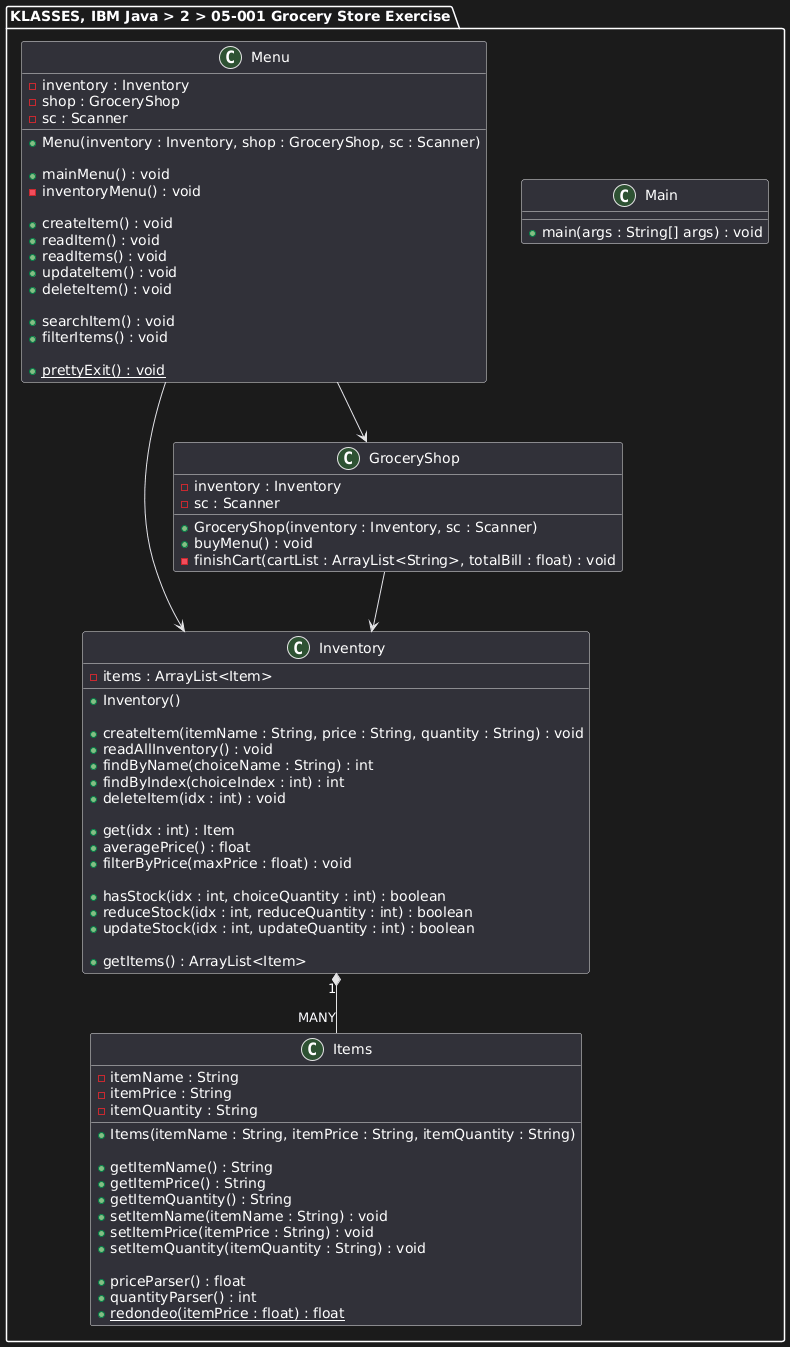
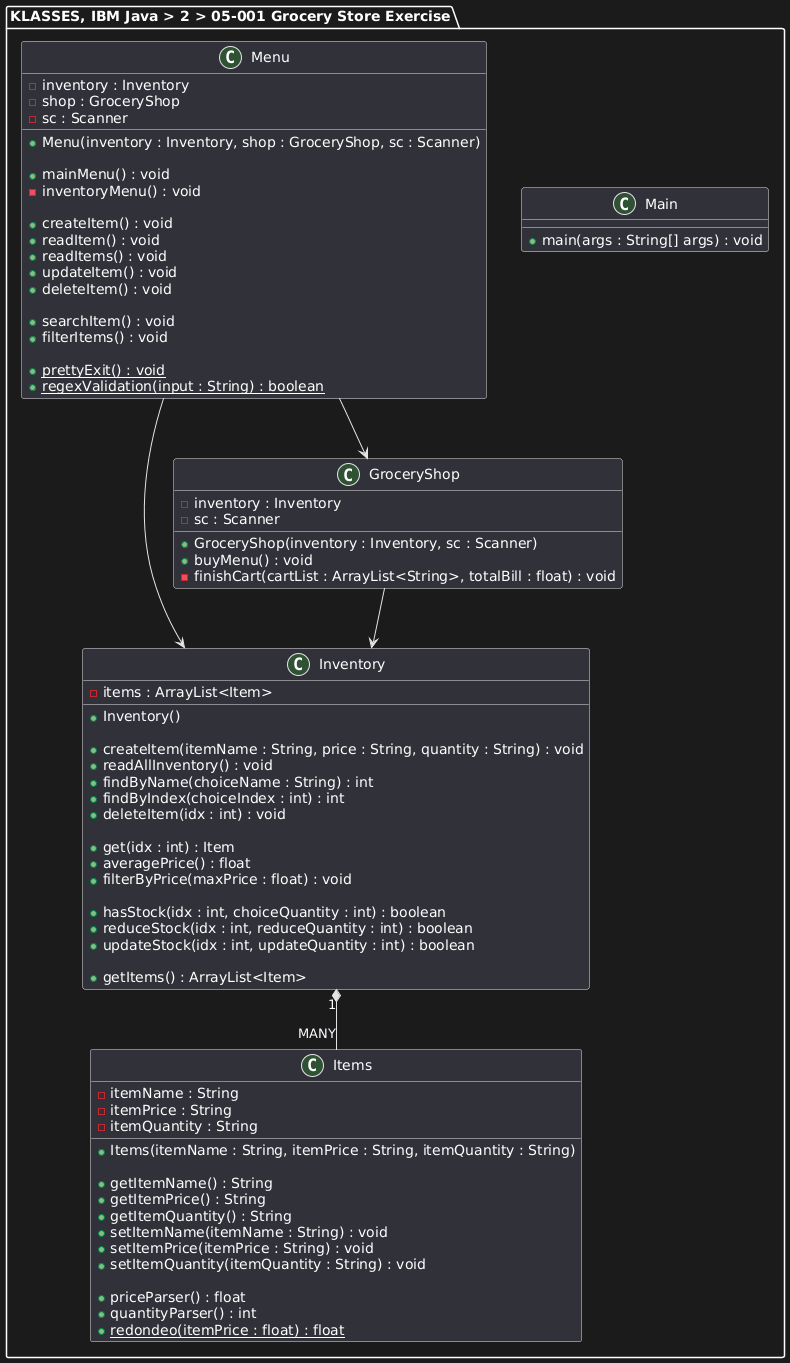
Add UserDefined Exception Handlers; add regex validation for inputs; update diagrams

Changed region(s): [[0.0304, 0.0, 0.7899, 0.9978], [0.6684, 0.1247, 0.9722, 0.1871], [0.6684, 0.8107, 0.7291, 0.8731]]

diff --git a/IBM_Java_Certification_EXERCISE_02-05-001/exercise/lab_grocery_proj/src/Menu.java b/IBM_Java_Certification_EXERCISE_02-05-001/exercise/lab_grocery_proj/src/Menu.java
@@ -6,6 +6,7 @@
  *
 */
 
+import java.rmi.UnexpectedException;
 import java.util.Scanner;
 
 public class Menu {
@@ -27,7 +28,7 @@ public class Menu {
     // methods
 
     // mainMenu() - public, accessed by Main
-    public void mainMenu() {
+    public void mainMenu() throws NotExpectedException {
 
         /*
         1. Administrar inventarios
@@ -90,8 +91,8 @@ public class Menu {
                     
                 } else {
 
-                    System.out.println("\n\n   [!]  Please, enter a valid option!");
-                    // pending a continue statement
+                    throw new UnexpectedException("\n\n   [!]  Please, enter a valid (numeric) option!");
+
                 }
 
 
@@ -108,7 +109,7 @@ public class Menu {
 
     // inventoryMenu(), private, accessed by others (Menu, Inventory) but through this Menu class (1 to many)
     // TASK 4  - while
-    private void inventoryMenu() {
+    private void inventoryMenu() throws NotExpectedException {
 
         /*
             1. Create item
@@ -170,8 +171,7 @@ public class Menu {
 
                 } else {
 
-                    System.out.println("\n\n   [!]  Please, enter a valid option!");
-                    // pending a continue statement
+                    throw new UnexpectedException("\n\n   [!]  Please, enter a valid (numeric) option!");
                 }
 
             } catch (Exception e) {
@@ -188,12 +188,16 @@ public class Menu {
     // METHODS like CRUD
     
     // createItem()
-    public void createItem(){
+    public void createItem() throws NotExpectedException, RegexValidationException{
 
         System.out.println("\n\n INVENTORY TOOLS:   Add new product");
         
         System.out.println("\n   -> Product Name? : ");
+        
         String choiceName = sc.nextLine();
+
+        regexValidation(choiceName);
+        
         if(choiceName.toUpperCase().strip().contains("EXIT")){
         
             prettyExit();
@@ -203,9 +207,11 @@ public class Menu {
 
         System.out.println("\n   -> Product Price (includes .00 decimals) ? : ");
         String choicePrice = sc.nextLine();
+        regexValidation(choicePrice);
 
         System.out.println("\n   -> How many single products will be added to stock  ? : ");
         String choiceQuantity = sc.nextLine();
+        regexValidation(choiceQuantity);
 
         // confirmation to write data
         System.out.println("\n\n[WRITE DATA CONFIRMATION]\n");
@@ -217,7 +223,7 @@ public class Menu {
         String choiceConfirmation = sc.nextLine();
         if(!choiceConfirmation.toUpperCase().contains("Y")) {
         
-            System.out.println("\n Operation Cancelled\n");
+            prettyExit();
             inventoryMenu();
         
         } else {
@@ -232,11 +238,13 @@ public class Menu {
     }
 
     // readItem()
-    public void readItem(){
+    public void readItem() throws NotExpectedException, RegexValidationException {
         
         System.out.println("\n\n INVENTORY TOOLS:   Find ONE Item");
         System.out.println("\n   -> Type the product name: ");
         String choiceName = sc.nextLine();
+
+        regexValidation(choiceName);
 
         if(choiceName.toUpperCase().strip().contains("EXIT")){
         
@@ -269,7 +277,7 @@ public class Menu {
     }
     
     // readItems()
-    public void readItems() {
+    public void readItems() throws NotExpectedException {
 
         System.out.println("\n\n INVENTORY TOOLS:   Show Full Inventory");
         inventory.readAllInventory();
@@ -280,13 +288,14 @@ public class Menu {
     }
 
     // updateItems()
-    public void updateItem(){
+    public void updateItem() throws NotExpectedException, RegexValidationException {
 
         System.out.println("\n\n INVENTORY TOOLS:   Update an Item");
         inventory.readAllInventory();
         System.out.println("\n   -> Type the item number to update: ");
         
         String choiceUpdate = sc.nextLine();
+        regexValidation(choiceUpdate);
         
         if(choiceUpdate.toUpperCase().strip().contains("EXIT")){
         
@@ -313,6 +322,8 @@ public class Menu {
         System.out.print("New name [" + item.getItemName() + "]: ");
         String choiceNewName = sc.nextLine().strip();
 
+        regexValidation(choiceNewName);
+
         if (!choiceNewName.isEmpty()) {
 
             item.setItemName(choiceNewName);
@@ -321,6 +332,7 @@ public class Menu {
         
         System.out.print("New price [" + item.getItemPrice() + " €]: ");
         String newPrice = sc.nextLine().strip();
+        regexValidation(newPrice);
         
         if (!newPrice.isEmpty()) {
         
@@ -330,6 +342,7 @@ public class Menu {
         
         System.out.print("New quantity [" + item.getItemQuantity() + " units]: ");
         String newQuantity = sc.nextLine().strip();
+        regexValidation(newQuantity);
 
         if (!newQuantity.isEmpty()) {
         
@@ -343,7 +356,7 @@ public class Menu {
     }
 
     // deleteItem()
-    public void deleteItem(){
+    public void deleteItem() throws NotExpectedException, RegexValidationException {
 
         System.out.println("\n\n INVENTORY TOOLS:   Delete a product");
         inventory.readAllInventory();
@@ -351,6 +364,9 @@ public class Menu {
         System.out.println("\n Type the item number to be deleted: ");
 
         String choiceDelete = sc.nextLine();
+
+        regexValidation(choiceDelete);
+
         if(choiceDelete.toUpperCase().strip().contains("EXIT")){
         
             prettyExit();
@@ -390,11 +406,13 @@ public class Menu {
 
 
     // searchItem()
-    public void searchItem(){
+    public void searchItem() throws RegexValidationException {
 
         System.out.println("\n\n INVENTORY TOOLS:   Search Items\n");
         System.out.println("\n   -> Type search term: ");
         String searchTerm = sc.nextLine();
+
+        regexValidation(searchTerm);
 
         if(searchTerm.toUpperCase().strip().contains("EXIT")) {
 
@@ -444,6 +462,20 @@ public class Menu {
 
     }
 
+    // Regex Validation
+    public static boolean regexValidation(String input) throws RegexValidationException {
+
+        String regexValidation = "^[a-zA-Z 0-9.]+$";
+        
+        if(!input.matches(regexValidation)) {
+
+            throw new RegexValidationException("\n[!] Please, use alhpanumeric values (a~Z, 0-9) ");
+    
+        }
+        
+        return true;
+
+    }
 
     // ExitMenusPretty func
     public static void prettyExit() {

diff --git a/IBM_Java_Certification_EXERCISE_02-05-001/exercise/lab_grocery_proj/src/GroceryShop.java b/IBM_Java_Certification_EXERCISE_02-05-001/exercise/lab_grocery_proj/src/GroceryShop.java
@@ -2,7 +2,7 @@
  * IBM Java Certification > Course 2 'Java Beginners'
  * Module 5 - Grading Exercise 1, Grocery Store
  * 
- * 03 - GroceryStore
+ * 03 - GroceryShop
  *
 */
 
@@ -29,7 +29,7 @@ public class GroceryShop {
     // methods
 
     // buyMenu()
-    public void buyMenu() {
+    public void buyMenu() throws RegexValidationException {
 
         float totalBill = 0.0f;
         ArrayList<String> cartList = new ArrayList<>();
@@ -41,6 +41,8 @@ public class GroceryShop {
             
             System.out.println("\n  - Enter Item name / Type 'Complete' to finish cart / Type 'Exit' to cancel: ");
             String itemChoice = sc.nextLine().strip();
+
+            Menu.regexValidation(itemChoice);
             
             // Task - Exit Condition
             if(itemChoice.toUpperCase().contains("EXIT")) {
@@ -81,12 +83,12 @@ public class GroceryShop {
             
             
             // Task 8 - Get chosen item qty
-            System.out.println("\n - How many " + item.getItemName() + " do you want?: ");
+            System.out.println("\n - Enter '" + item.getItemName() + "' units: ");
             
             int parsedQuantity;
             
             try {
-            
+
                 parsedQuantity = Integer.parseInt(sc.nextLine().strip());
                 
                 // Numeric > 0 validation
@@ -123,6 +125,8 @@ public class GroceryShop {
             // Task 14, Redece Stock (Before confirmation) Part 1
             System.out.println("\nAdd " + parsedQuantity + "x " + item.getItemName() + " to cart? (Yes/No): ");
             String confirmation = sc.nextLine().strip();
+
+            Menu.regexValidation(confirmation);
             
             if (!confirmation.toUpperCase().contains("Y")) {
                 

diff --git a/IBM_Java_Certification_EXERCISE_02-05-001/exercise/lab_grocery_proj/src/RegexValidationException.java b/IBM_Java_Certification_EXERCISE_02-05-001/exercise/lab_grocery_proj/src/RegexValidationException.java
@@ -1,0 +1,10 @@
+public class RegexValidationException extends Exception {
+
+    public RegexValidationException(String message) {
+
+        super(message);
+
+    }
+    
+}
+

diff --git a/IBM_Java_Certification_EXERCISE_02-05-001/exercise/lab_grocery_proj/src/NotExpectedException.java b/IBM_Java_Certification_EXERCISE_02-05-001/exercise/lab_grocery_proj/src/NotExpectedException.java
@@ -1,0 +1,9 @@
+public class NotExpectedException extends Exception {
+
+    public NotExpectedException(String message) {
+
+        super(message);
+
+    }
+    
+}
